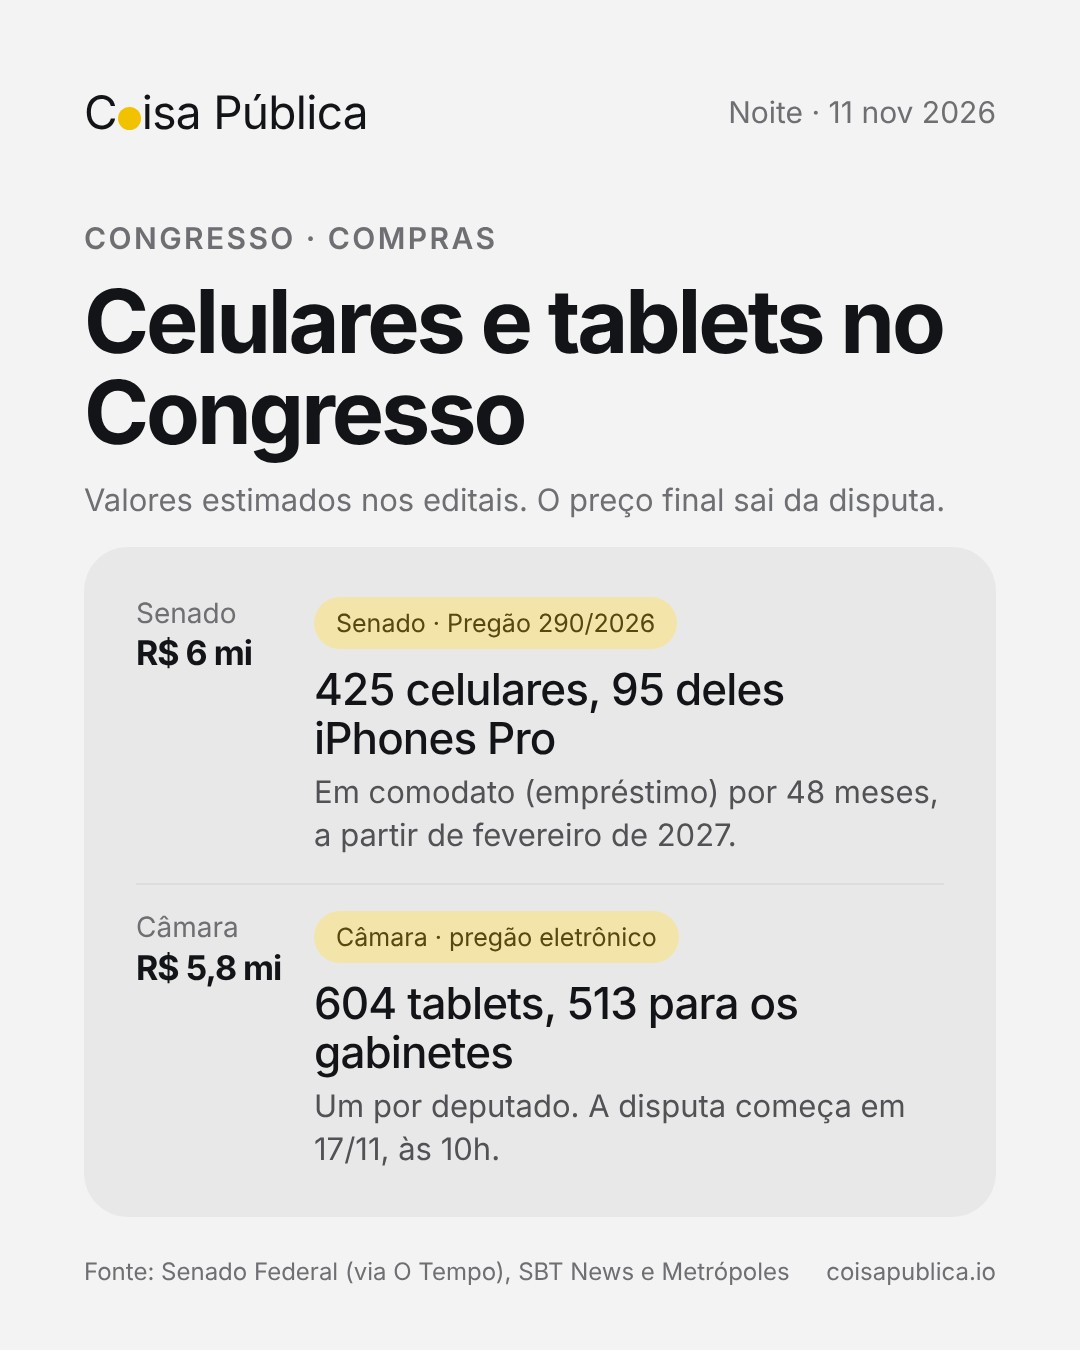
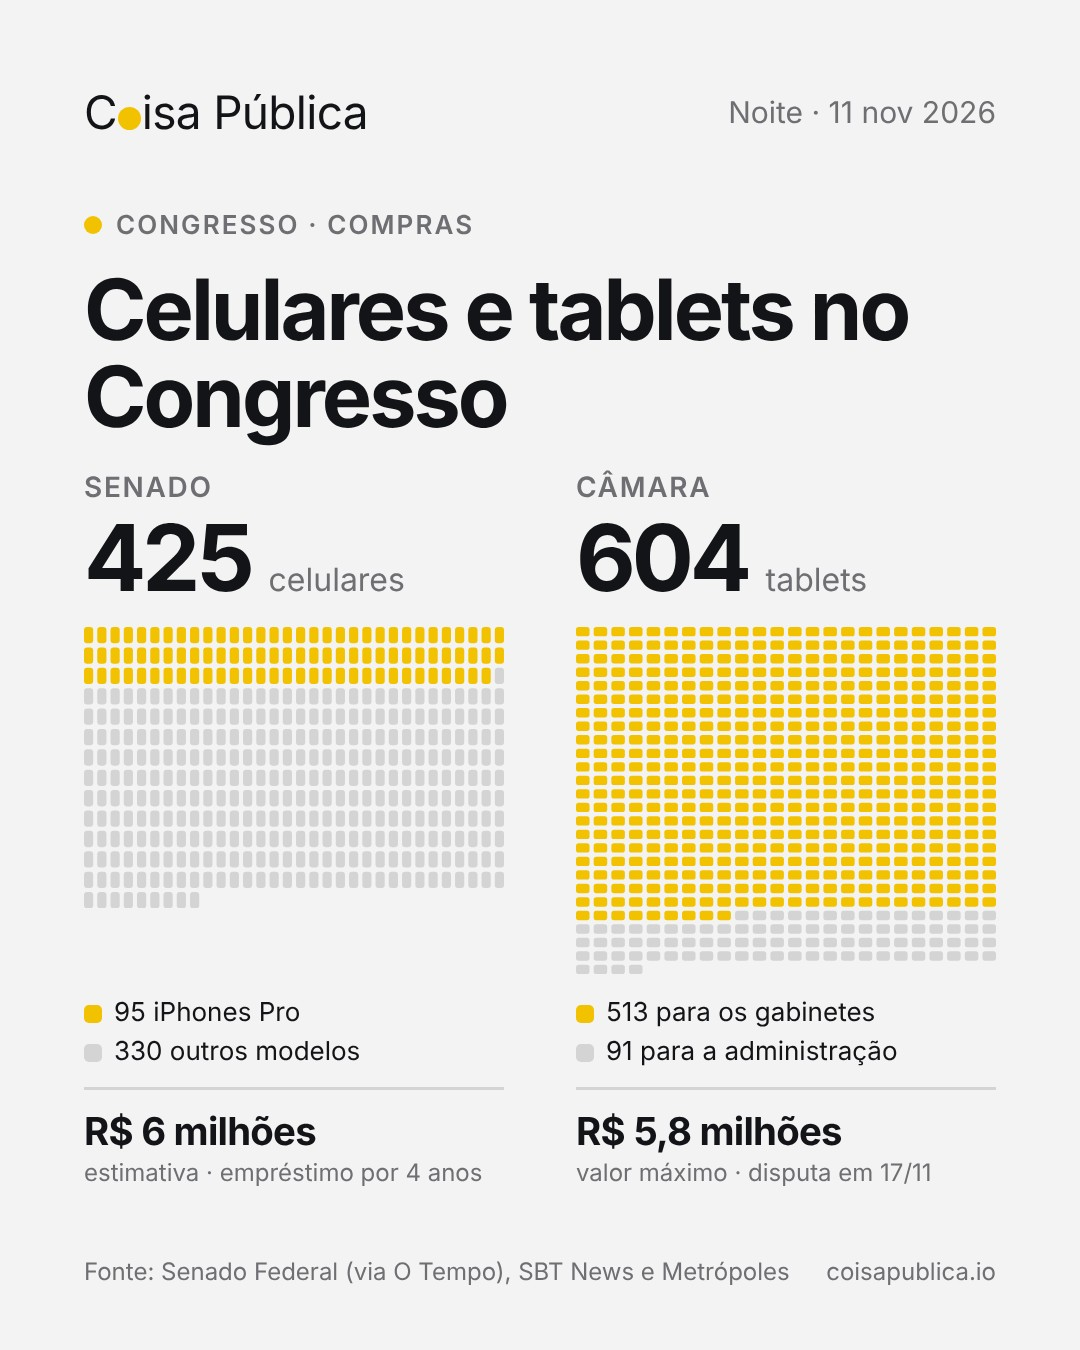
Post de 11/11 sobre celulares e tablets: ilustração com um desenho por aparelho
Claude-Session: https://claude.ai/code/session_01LhzKyJw3qhrK3LKiQu3PAL

diff --git a/scripts/posts/render.js b/scripts/posts/render.js
@@ -113,6 +113,21 @@ function visual(V, poder){
       <line x1="0" y1="${3*H}" x2="912" y2="${3*H}" stroke="var(--gray)" stroke-width="2"/>${legend}
     </svg>`;
   }
+  // aparelhos: uma coluna por grupo (ex.: Senado e Câmara), com um desenho por aparelho (celular em pé ou tablet deitado);
+  // `partes` pinta os primeiros na cor do poder e o resto em cinza, com a legenda e o valor embaixo
+  if (V.tipo === 'aparelhos'){
+    const col = G => {
+      const tot = (G.partes || []).reduce((a,[n])=>a+n,0), cel = G.forma !== 'tablet';
+      const w = cel ? 9 : 13, h = cel ? 16 : 9, gx = 4, gy = 4, W = 420, per = Math.floor((W+gx)/(w+gx)), rows = Math.ceil(tot/per);
+      const first = (G.partes[0] || [0])[0];
+      const units = [...Array(tot)].map((_,i)=>`<rect x="${(i%per)*(w+gx)}" y="${Math.floor(i/per)*(h+gy)}" width="${w}" height="${h}" rx="${cel ? 3 : 2.5}" fill="${i < first ? 'var(--pc)' : 'var(--gray)'}"/>`).join('');
+      return `<div class="ap"><small>${esc(G.titulo)}</small><b>${esc(G.n)} <span>${esc(G.l)}</span></b>
+        <svg viewBox="0 0 ${per*(w+gx)-gx} ${rows*(h+gy)-gy}" width="${W}">${units}</svg>
+        <div class="ap-lg">${G.partes.map(([n,t],i)=>`<span><i style="background:${i ? 'var(--gray)' : 'var(--pc)'}"></i>${n} ${esc(t)}</span>`).join('')}</div>
+        ${G.valor ? `<p class="ap-v">${esc(G.valor)}<small>${esc(G.sub || '')}</small></p>` : ''}</div>`;
+    };
+    return `<div class="aps">${(V.grupos || []).map(col).join('')}</div>`;
+  }
   if (V.tipo === 'plenario') return `<div>${hemi(V.casa, V.destaque || 0)}${V.numeros ? `<div class="nums">${V.numeros.map(x=>`<div><b>${esc(x.n)}</b><span>${esc(x.l)}</span></div>`).join('')}</div>` : ''}</div>`;
   if (V.tipo === 'data') return `<div class="dat">${(V.simbolo || poder) === 'jud' ? MESA : `<div class="circ">${GLY[V.simbolo || poder] || ''}</div>`}<div>${V.rotulo ? `<small>${esc(V.rotulo)}</small>` : ''}<b>${esc(V.valor)}</b>${V.sub ? `<small style="margin-top:8px">${esc(V.sub)}</small>` : ''}</div></div>`;
   return '';

diff --git a/scripts/posts/modelo.html b/scripts/posts/modelo.html
@@ -44,6 +44,14 @@ body.cheio.p-exe{--pc:#009C3B;--pci:#F3F3F3}
 .dat b{display:block;font-size:calc(150px * var(--k));font-weight:700;letter-spacing:-.045em;line-height:.95}
 .cheio .row{width:100%;align-items:center}
 .cheio .leg2{color:var(--muted)}
+.aps{display:grid;grid-template-columns:1fr 1fr;grid-template-rows:repeat(5,auto);column-gap:72px;width:100%;align-items:start}
+.ap{display:grid;grid-row:span 5;grid-template-rows:subgrid}
+.ap small{display:block;font-size:28px;color:var(--muted);letter-spacing:.06em;text-transform:uppercase;font-weight:600}
+.ap > b{display:block;font-size:calc(96px * var(--k));font-weight:700;letter-spacing:-.045em;line-height:1;margin:8px 0 calc(24px * var(--k))}
+.ap > b span{font-size:32px;font-weight:400;letter-spacing:0;color:var(--muted)}
+.ap svg{display:block;max-width:100%;height:auto}
+.ap-lg{display:flex;flex-direction:column;gap:8px;margin-top:22px;font-size:26px;color:var(--ink)}.ap-lg i{display:inline-block;width:18px;height:18px;border-radius:5px;margin-right:12px;vertical-align:-2px}
+.ap-v{margin:calc(22px * var(--k)) 0 0;padding-top:18px;border-top:3px solid var(--gray);font-size:calc(40px * var(--k));font-weight:700;letter-spacing:-.02em}.ap-v small{display:block;margin-top:4px;font-size:24px;font-weight:400;letter-spacing:0;text-transform:none;color:var(--muted)}
 .perg{flex:1;display:flex;align-items:center}
 .perg p{margin:0;font-size:calc(104px * var(--k));line-height:1.02;letter-spacing:-.04em;font-weight:700}
 .prod{display:flex;align-items:center;gap:36px;padding:34px 0 0;border-top:3px solid var(--gray)}

diff --git a/posts/LEIA.md b/posts/LEIA.md
@@ -63,7 +63,7 @@ Horário de Brasília. A tarefa agendada roda todo dia às 6h37, 11h37 e 17h37 e
 
 - `imagem.poder`: `leg`, `jud` ou `exe` (cor da bolinha do logo). Em `tags`, `poder` pinta a etiqueta com a cor do poder e `cat` usa a cor do tipo (`mp`, `pec`, `plp`, `pl`, `pdl`, `acao`, `re`).
 - Um assunto só: `tags`, `texto` e, se houver, `placar` (`desenho`: `stf`, `camara`, `senado` ou sem desenho). Lista de assuntos: `itens` (até 3), cada um com `quando`, `dia`, `tags`, `titulo` e `texto` opcional; o `texto` de fora vira uma linha embaixo do título.
-- Post de um assunto só com `imagem.poder` sai no layout de assunto único: fundo #F3F3F3, o tema em texto pequeno com uma bolinha na cor do poder, sem caixa e sem etiquetas (elas ficam na legenda), e um desenho grande no meio: `visual` `{"tipo":"plenario","casa":"camara"|"senado","destaque":308,"numeros":[{"n":"308","l":"dos 513 deputados"}]}` (semicírculo com as cadeiras destacadas) ou `{"tipo":"percentual","valor":60,"rotulo":"três quintos","numeros":[...]}` (o semicírculo do plenário numa faixa única, preenchida até a porcentagem) ou `{"tipo":"data","rotulo":"Julgamento","valor":"4/11","sub":"quarta-feira, no plenário"}` (o símbolo do poder num círculo, ou a mesa do STF com as 11 cadeiras no Judiciário, e, à direita dele, o rótulo, a data ou o número grande e a linha de baixo; o grupo fica centralizado na largura); ou `{"tipo":"distrital"}` (o mesmo estado fictício duas vezes, em hexágonos com uma bolinha por vaga: à esquerda um território só, "Hoje"; à direita cortado em distritos, "Distrital"; `rotulos` muda os textos de baixo) ou `{"tipo":"sistemas"}` (uma tabela de três linhas separadas por fios, proporcional, distrital e misto, com um estado fictício de 10 vagas e três partidos fictícios em laranja, verde-água e roxo: o nome e uma regra curta, o mapa e as cadeiras que resultam; embaixo, a legenda "Exemplo fictício"; o post fica sem `texto`) ou `{"tipo":"degraus","pontos":[15,14.75,14.5],"valor":"14,5%","sub":"ao ano"}` (uma escada com o número publicado em cada degrau; a base não começa do zero); sem `visual`, entra o `placar`. Texto curto (uma ou duas frases); o resto vai na legenda. Posts com lista (`itens`), como a ordem do dia e os resumos, seguem com a caixa cinza. Para usar o layout antigo, com caixa, num post de um assunto só: `"fundo":"claro"`.
+- Post de um assunto só com `imagem.poder` sai no layout de assunto único: fundo #F3F3F3, o tema em texto pequeno com uma bolinha na cor do poder, sem caixa e sem etiquetas (elas ficam na legenda), e um desenho grande no meio: `visual` `{"tipo":"plenario","casa":"camara"|"senado","destaque":308,"numeros":[{"n":"308","l":"dos 513 deputados"}]}` (semicírculo com as cadeiras destacadas) ou `{"tipo":"percentual","valor":60,"rotulo":"três quintos","numeros":[...]}` (o semicírculo do plenário numa faixa única, preenchida até a porcentagem) ou `{"tipo":"data","rotulo":"Julgamento","valor":"4/11","sub":"quarta-feira, no plenário"}` (o símbolo do poder num círculo, ou a mesa do STF com as 11 cadeiras no Judiciário, e, à direita dele, o rótulo, a data ou o número grande e a linha de baixo; o grupo fica centralizado na largura); ou `{"tipo":"distrital"}` (o mesmo estado fictício duas vezes, em hexágonos com uma bolinha por vaga: à esquerda um território só, "Hoje"; à direita cortado em distritos, "Distrital"; `rotulos` muda os textos de baixo) ou `{"tipo":"sistemas"}` (uma tabela de três linhas separadas por fios, proporcional, distrital e misto, com um estado fictício de 10 vagas e três partidos fictícios em laranja, verde-água e roxo: o nome e uma regra curta, o mapa e as cadeiras que resultam; embaixo, a legenda "Exemplo fictício"; o post fica sem `texto`) ou `{"tipo":"aparelhos","grupos":[{"titulo":"Senado","n":"425","l":"celulares","forma":"celular"|"tablet","partes":[[95,"iPhones Pro"],[330,"outros modelos"]],"valor":"R$ 6 milhões","sub":"estimativa"}]}` (uma coluna por grupo, com um desenhinho por aparelho; a primeira parte na cor do poder e o resto em cinza, a legenda e o valor embaixo) ou `{"tipo":"degraus","pontos":[15,14.75,14.5],"valor":"14,5%","sub":"ao ano"}` (uma escada com o número publicado em cada degrau; a base não começa do zero); sem `visual`, entra o `placar`. Texto curto (uma ou duas frases); o resto vai na legenda. Posts com lista (`itens`), como a ordem do dia e os resumos, seguem com a caixa cinza. Para usar o layout antigo, com caixa, num post de um assunto só: `"fundo":"claro"`.
 - **Pergunta em destaque** (bom para "Em tramitação"): `"pergunta":"Os municípios podem criar as próprias loterias?"` e `"rodape":{"rotulo":"O STF decide em","valor":"4 de novembro"}`. A pergunta vira o título grande, o `titulo` vai para a linha do tema, e embaixo, depois de um fio, entram o símbolo do poder (a mesa do STF no Judiciário) e a data.
 - Títulos curtos (até ~40 caracteres). Se `render.js` avisar que não coube, encurtar.
 - Exemplos completos em `posts/exemplos/`.
